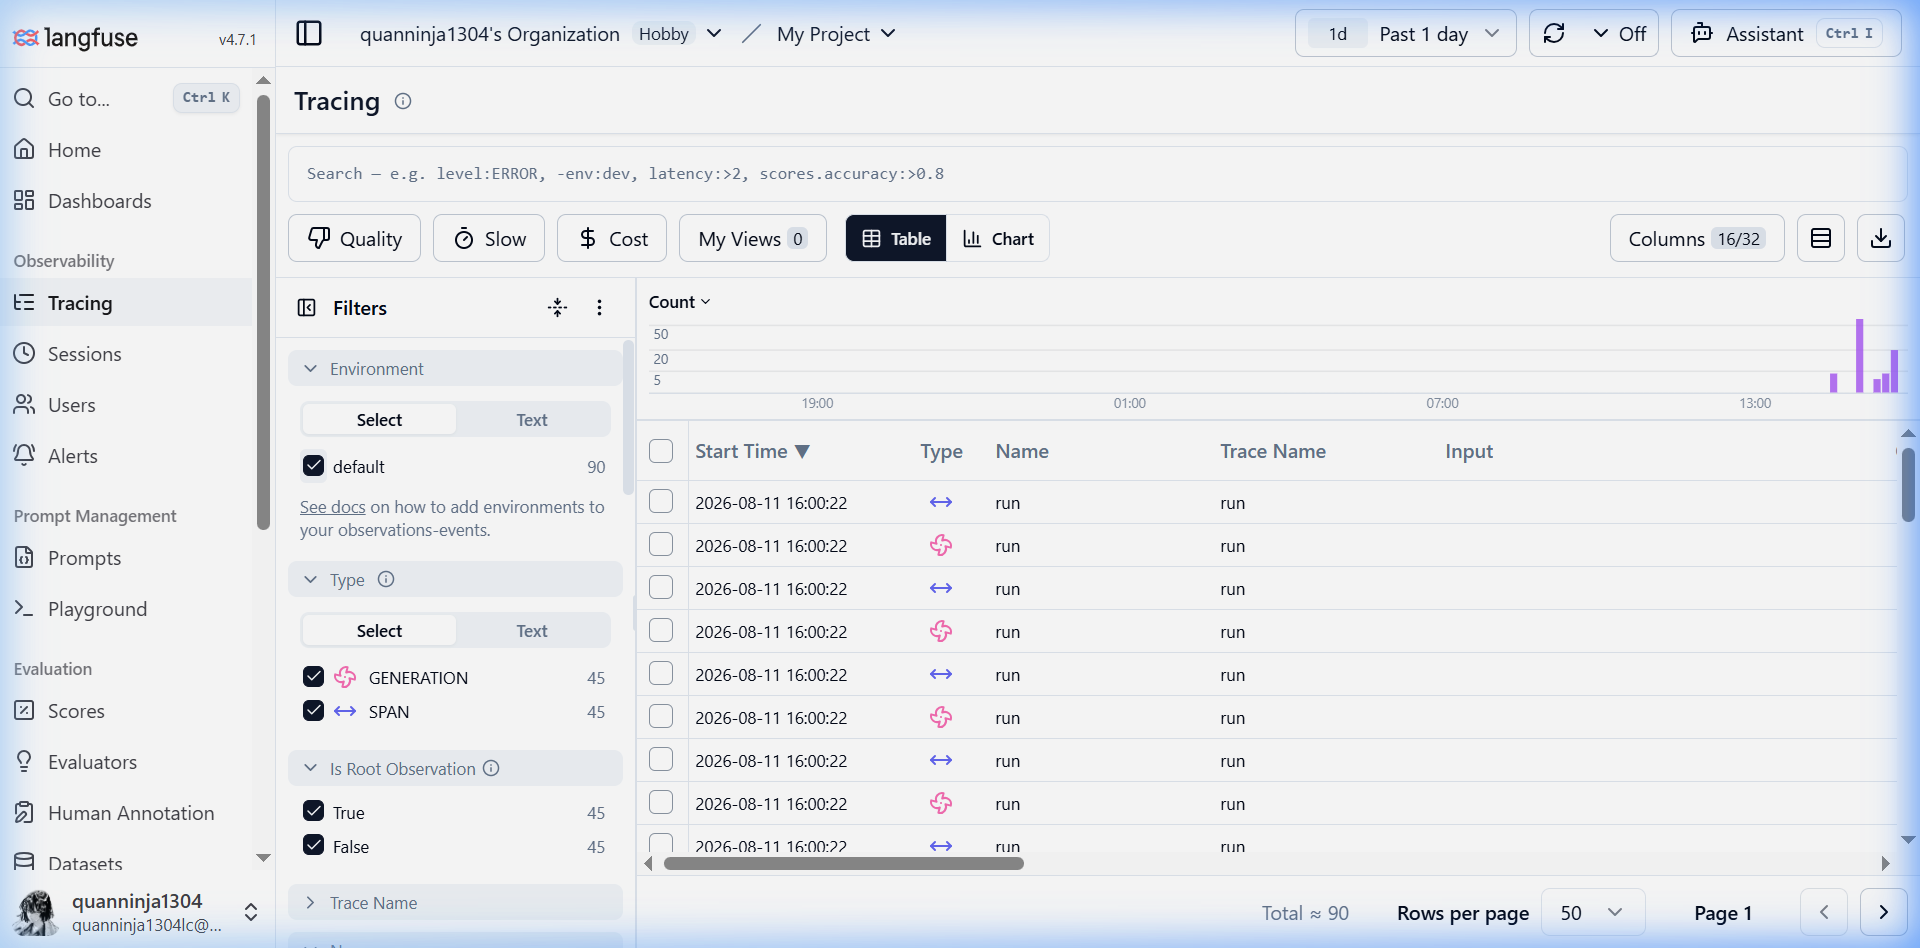
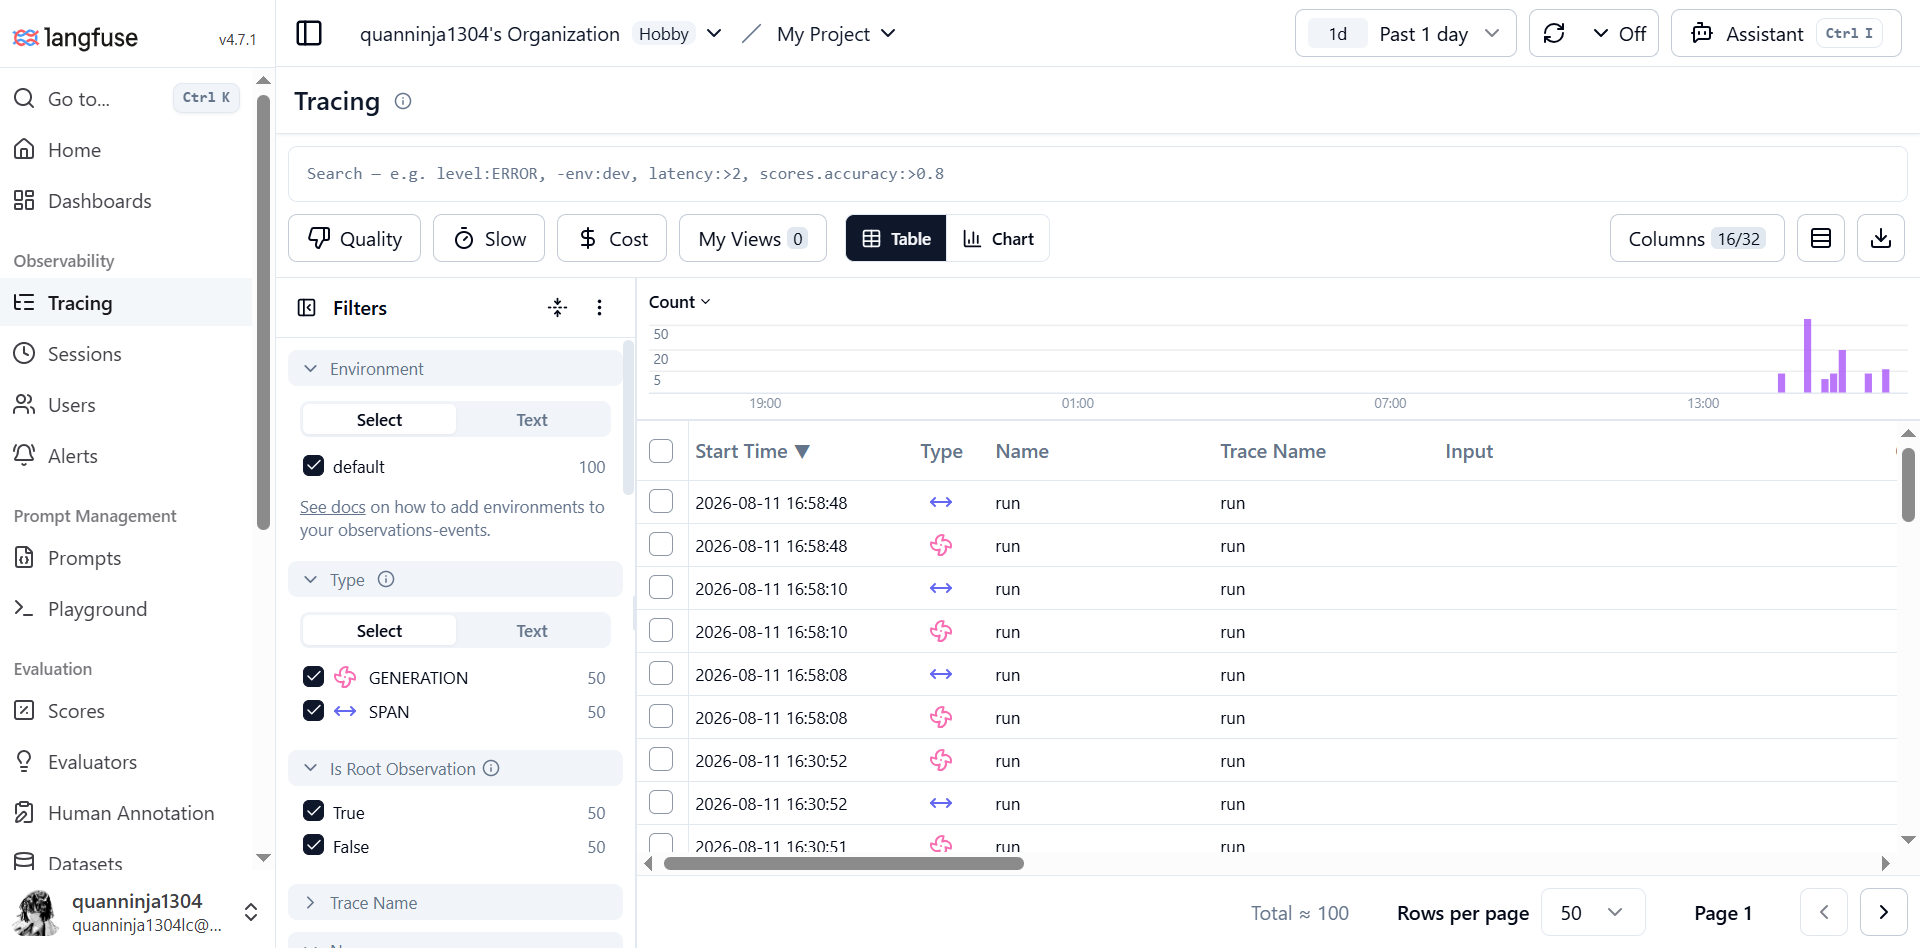
quan nop bai

diff --git a/scripts/capture_metadata.py b/scripts/capture_metadata.py
@@ -1,0 +1,78 @@
+"""Capture trace metadata screenshots scrolled deep enough to show prompt_label fields."""
+import time
+from pathlib import Path
+
+EVIDENCE_DIR = Path("submission/evidence")
+PROJECT = "cmsod2r0900m6ad0hzg8w1vot"
+BASE = f"https://us.cloud.langfuse.com/project/{PROJECT}"
+
+PAGES = [
+    ("trace_baseline_metadata.png", f"{BASE}/traces/8dc7c893d2a418600e7e9f9904047d00"),
+    ("trace_candidate_metadata.png", f"{BASE}/traces/65e356bfe5fc5ca71c7799ed27dc7be7"),
+    ("challenge_waterfall.png", f"{BASE}/traces/c709ac1e15ee347068438f5464d7bb13"),
+]
+
+
+def main():
+    from playwright.sync_api import sync_playwright
+
+    with sync_playwright() as p:
+        browser = p.chromium.connect_over_cdp("http://localhost:9222")
+        ctx = browser.contexts[0] if browser.contexts else browser.new_context()
+        page = ctx.new_page()
+        
+        for filename, url in PAGES:
+            print(f"\nCapturing {filename}")
+            try:
+                page.goto(url, wait_until="networkidle", timeout=30000)
+            except Exception:
+                try:
+                    page.goto(url, wait_until="domcontentloaded", timeout=15000)
+                except Exception:
+                    pass
+            
+            time.sleep(5)
+            
+            # Switch to JSON view which shows all metadata inline
+            try:
+                json_toggle = page.locator("button:has-text('JSON'), label:has-text('JSON')").first
+                if json_toggle.is_visible():
+                    json_toggle.click()
+                    time.sleep(2)
+                    print("  Switched to JSON view")
+            except Exception as e:
+                print(f"  Could not switch to JSON: {e}")
+            
+            # Scroll down to where prompt_label should be visible
+            # The metadata section is at the bottom of the panel
+            page.evaluate("window.scrollTo(0, 1500)")
+            time.sleep(2)
+            
+            # Check if prompt_label is visible
+            try:
+                visible = page.locator("text=prompt_label").is_visible()
+                print(f"  prompt_label visible: {visible}")
+                if not visible:
+                    # Try scrolling within the right panel content
+                    page.evaluate("""
+                        const panels = document.querySelectorAll('[class*=scroll], [style*=overflow]');
+                        panels.forEach(p => p.scrollTop = p.scrollHeight);
+                    """)
+                    time.sleep(2)
+                    visible = page.locator("text=prompt_label").is_visible()
+                    print(f"  prompt_label visible after inner scroll: {visible}")
+            except Exception:
+                pass
+            
+            filepath = EVIDENCE_DIR / filename
+            page.screenshot(path=str(filepath), full_page=False)
+            print(f"  Saved: {filepath} ({filepath.stat().st_size} bytes)")
+        
+        page.close()
+        browser.close()
+    
+    print("\nDone!")
+
+
+if __name__ == "__main__":
+    main()

diff --git a/scripts/capture_screenshots.py b/scripts/capture_screenshots.py
@@ -1,0 +1,67 @@
+"""Capture Langfuse screenshots by connecting to existing Edge via CDP."""
+import time
+from pathlib import Path
+
+EVIDENCE_DIR = Path("submission/evidence")
+EVIDENCE_DIR.mkdir(parents=True, exist_ok=True)
+
+PROJECT = "cmsod2r0900m6ad0hzg8w1vot"
+BASE = f"https://us.cloud.langfuse.com/project/{PROJECT}"
+
+PAGES = [
+    ("trace_list.png", f"{BASE}/traces", "Trace list >= 10"),
+    ("trace_baseline_metadata.png", f"{BASE}/traces/8dc7c893d2a418600e7e9f9904047d00", "Baseline V1 metadata"),
+    ("trace_candidate_metadata.png", f"{BASE}/traces/65e356bfe5fc5ca71c7799ed27dc7be7", "Candidate V2 metadata"),
+    ("prompt_versions.png", f"{BASE}/prompts/day13-chat", "Prompt V1 + V2 with labels"),
+    ("challenge_waterfall.png", f"{BASE}/traces/c709ac1e15ee347068438f5464d7bb13", "Challenge rag_slow waterfall"),
+]
+
+
+def main():
+    from playwright.sync_api import sync_playwright
+
+    with sync_playwright() as p:
+        # Connect to Edge already running with --remote-debugging-port=9222
+        browser = p.chromium.connect_over_cdp("http://localhost:9222")
+        
+        # Use existing context (which has the user's login session)
+        ctx = browser.contexts[0] if browser.contexts else browser.new_context()
+        page = ctx.new_page()
+        
+        for filename, url, desc in PAGES:
+            print(f"\nCapturing {filename}: {desc}")
+            try:
+                page.goto(url, wait_until="networkidle", timeout=30000)
+            except Exception:
+                print(f"  Timeout on networkidle, using domcontentloaded...")
+                try:
+                    page.goto(url, wait_until="domcontentloaded", timeout=15000)
+                except Exception:
+                    pass
+            
+            time.sleep(5)
+            
+            # For trace detail pages, scroll down to show metadata
+            if "traces/" in url and not url.endswith("/traces"):
+                try:
+                    page.evaluate("window.scrollTo(0, 400)")
+                    time.sleep(2)
+                except Exception:
+                    pass
+            
+            filepath = EVIDENCE_DIR / filename
+            page.screenshot(path=str(filepath), full_page=False)
+            size = filepath.stat().st_size
+            print(f"  Saved: {filepath} ({size} bytes)")
+            
+            if size < 20000:
+                print(f"  WARNING: File seems too small, might be an error page!")
+        
+        page.close()
+        browser.close()
+    
+    print("\nDone!")
+
+
+if __name__ == "__main__":
+    main()
